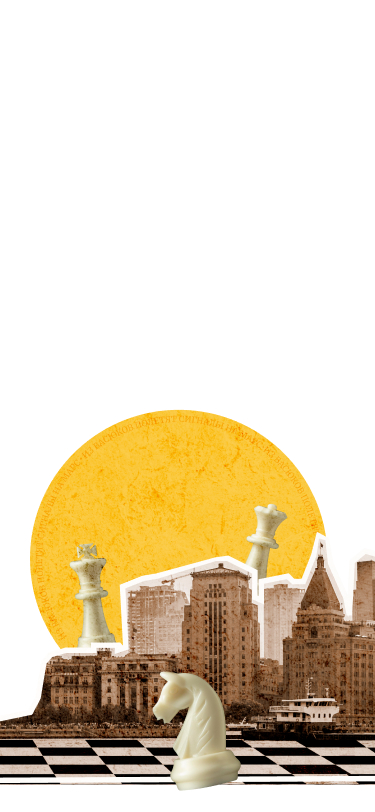
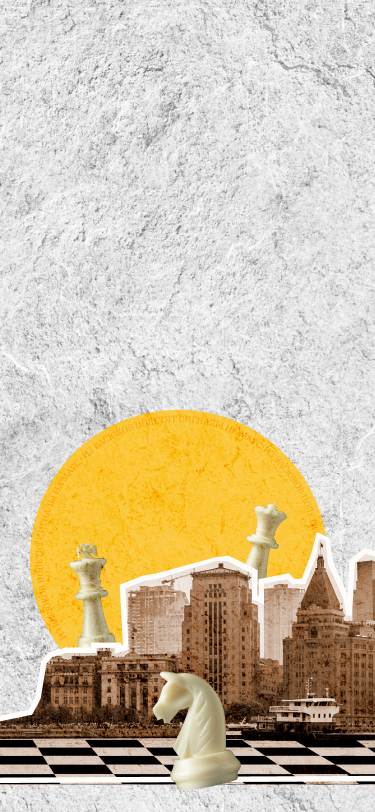
fix mobile version styles

diff --git a/styles/event.css b/styles/event.css
@@ -22,7 +22,7 @@
 .event__content {
     display: flex;
     flex-direction: column;
-    gap: 30px;
+    gap: 24px;
 }
 
 .event__poster {
@@ -43,11 +43,17 @@
 .event__table {
     width: 100%;
     border-collapse: collapse;
-    margin-bottom: 48px;
+    margin-bottom: 24px;
 }
 
 .event__row {
-    border-bottom: 2px solid #D6D6D6;
+    border-bottom: 1px solid #D6D6D6;
+    display: flex;
+    flex-direction: column;
+}
+
+.event__row:first-child {
+    border-top: none;
 }
 
 .event__row:last-child {
@@ -61,21 +67,40 @@
     line-height: 1.2;
     text-align: left;
     vertical-align: top;
+    padding: 12px 0;
+}
+
+.event__row:first-child th,
+.event__row:first-child td {
+    padding-top: 0;
+}
+
+.event__row:last-child th,
+.event__row:last-child td {
+    padding-bottom: 0;
 }
 
 .event__label {
-    width: 45%;
-    color: #313131;
+    color: #595653;
     font-weight: 400;
-    opacity: 0.7;
-    border-right: 2px solid #D6D6D6;
 }
 
 .event__value {
-    width: 55%;
     color: #313131;
     font-weight: 600;
 }
+
+.event__label {
+    color: #313131;
+    font-weight: 400;
+    opacity: 0.7;
+}
+
+.event__value {
+    color: #313131;
+    font-weight: 600;
+}
+
 
 .event__value .price-old {
     position: relative;
@@ -97,7 +122,7 @@
 .event__contact {
     color: #3057A2;
     font-family: "Golos Text", sans-serif;
-    font-size: 16px;
+    font-size: 18px;
     line-height: 1.3;
 }
 
@@ -139,15 +164,38 @@
     }
 
     .event__label {
-        width: 40%;
-    }
-
-    .event__value {
-        width: 60%;
+        width: 45%;
+        border-right: 2px solid #D6D6D6;
     }
 
     .event__contact {
         font-size: 20px;
+    }
+
+    .event__table {
+        width: 100%;
+        border-collapse: collapse;
+        margin-bottom: 48px;
+    }
+
+    .event__row {
+        flex-direction: row;
+        border-bottom: 2px solid #D6D6D6;
+    }
+
+    .event__row:last-child {
+        border-bottom: none;
+    }
+
+    .event__value {
+        width: 55%;
+    }
+
+    .event__label,
+    .event__value {
+        padding: 0;
+        text-align: left;
+        vertical-align: top;
     }
 }
 
@@ -166,9 +214,6 @@
         align-items: flex-start;
     }
 
-    /* .event__poster {
-    }
-*/
     .event__info {
         padding: 0;
     }

diff --git a/styles/tournament.css b/styles/tournament.css
@@ -6,14 +6,6 @@
 }
 
 .tournament__text {
-    color: #313131;
-    text-transform: uppercase;
-    font-size: 28px;
-    line-height: 1.35;
-    font-weight: 400;
-    letter-spacing: 1px;
-    text-align: center;
-    order: 1;
     display: none;
 }
 
@@ -54,11 +46,19 @@
 
     .tournament__text {
         display: flex;
+        flex-direction: column;
         font-size: 36px;
         text-align: left;
+        color: #313131;
+        text-transform: uppercase;
+        line-height: 1.35;
+        font-weight: 400;
+        letter-spacing: 1px;
+        text-align: center;
+        order: 1;
     }
 
-    .tournament__text_mobile {
+    .tournament__text-mobile {
         display: none;
     }
 }

diff --git a/styles/main.css b/styles/main.css
@@ -1,3 +1,9 @@
 .main {
-    padding: 80px calc(50% - 1222px / 2) 140px;
+    padding: 48px 0 100px;
+}
+
+@media (min-width: 768px) {
+    .main {
+        padding: 80px calc(50% - 1222px / 2) 140px;
+    }
 }